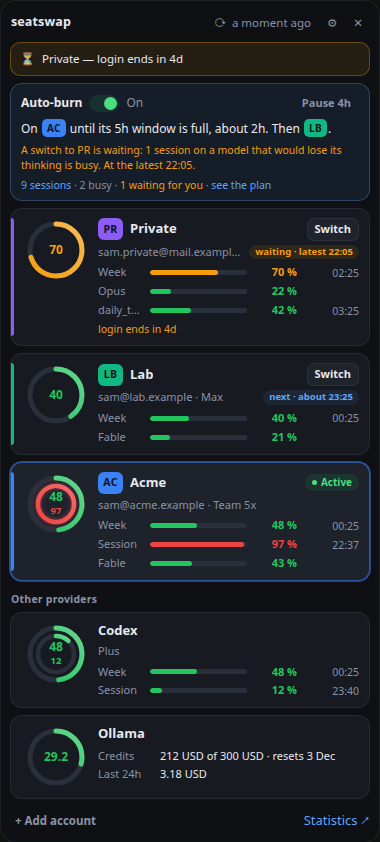
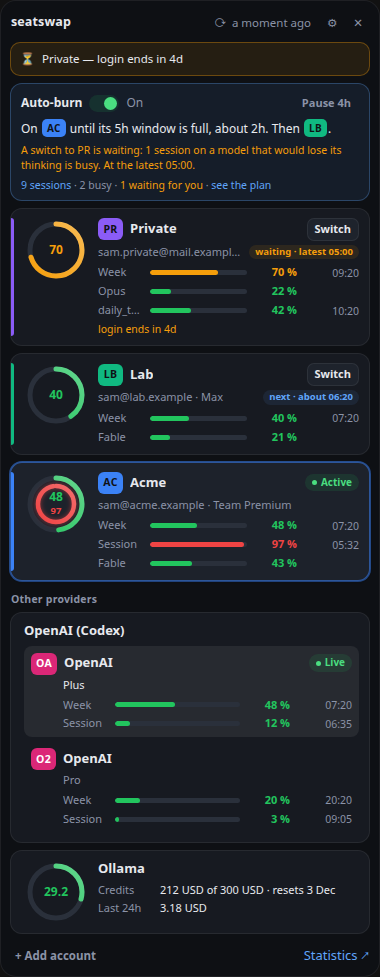
Docs after 1.3.0: README and screenshots, Codex login on Windows as a known issue, Tokens-a-week note

diff --git a/crates/app/ui/areas/statistics/subscriptions.js b/crates/app/ui/areas/statistics/subscriptions.js
@@ -1186,7 +1186,7 @@ function tokensWeekCard(tokensWeek, plans, env) {
   body.appendChild(
     h("p", {
       class: "stats-sub-token-note",
-      text: "Refit every week as new work comes in; the range is how far a figure may still be off.",
+      text: "Fitted from all work up to now each time the page opens; the range is how far a figure may still be off.",
     })
   );
   card.appendChild(body);

diff --git a/README.md b/README.md
@@ -7,20 +7,25 @@ A tray app and command line tool for Linux and Windows that switches
 one click. Only the login is swapped. Your `~/.claude` (on Windows `%USERPROFILE%\.claude`) stays
 the same for every account: memory, skills, plugins, hooks, settings and history are shared.
 
-The tray icon shows the active account's abbreviation with a ring for how much of its limit is
-used. A click opens a pop-up with the session and weekly usage of every stored account, so you can
-see at a glance which one still has room. Beyond that, seatswap can switch by itself so that as
-little quota as possible expires (auto-burn), shows the running Claude Code sessions, keeps a
-history with statistics of what each subscription was used for, and builds Claude Code's status
-line.
+The tray icon shows the active account's abbreviation (or, if you choose, its usage percent) with a
+ring for how much of its limit is used. A click opens a pop-up with the session and weekly usage of
+every stored account, so you can see at a glance which one still has room. Beyond that, seatswap
+can switch by itself so that as little quota as possible expires (auto-burn), switches Codex between
+saved OpenAI logins, shows the running Claude Code, Codex and DeepSeek Harness sessions, keeps a
+history with statistics of what each subscription was used for and what it gives, and builds Claude
+Code's status line.
 
 <p>
-  <img src="docs/images/panel-dark.png" alt="The pop-up in the dark theme: auto-burn's line with account chips and a waiting switch, the sessions line with links to Sessions, the plan and Statistics, three accounts with usage rings, bars and reset times, and the Codex and Ollama cards" width="380">
+  <img src="docs/images/panel-dark.png" alt="The pop-up in the dark theme: a login warning, auto-burn's line with account chips and a waiting switch, the sessions line, three Claude accounts with usage rings, bars and reset times, the OpenAI (Codex) card with two saved logins, the live one marked, and the Ollama card" width="380">
   <img src="docs/images/panel-light.png" alt="The same pop-up in the light theme" width="380">
 </p>
 
 <p>
-  <img src="docs/images/window-sessions.png" alt="The large window's Sessions area: Claude Code, Codex and DeepSeek Harness sessions grouped by project and provider, with their agents, tokens, last hour and values, and cards for the models, what a switch would cost and the last hour by project" width="760">
+  <img src="docs/images/window-sessions.png" alt="The large window's Sessions area: Claude Code and DeepSeek Harness sessions grouped by project and provider, with their agents, a flash job, tokens, last hour and values, and cards for the models, what a switch would cost and the last hour by project" width="760">
+</p>
+
+<p>
+  <img src="docs/images/window-subscriptions.png" alt="Statistics, Subscriptions page over 90 days: what each plan gives in hours of typical work per model, the plan sizes measured against Max, what is used of what is paid per company, what 1 % of a limit buys over the weeks with a note that it fell by 20 % since 19 Oct, and the tokens a week per subscription and model" width="760">
 </p>
 
 <p>
@@ -35,12 +40,12 @@ line.
 
 ## Status
 
-Built and used daily on **Linux Mint 22 Cinnamon (X11)**. On Windows 11 it builds
-and passes its tests (Claude Code keeps its login in the same file there), and the tray app of
-1.0 had its first run there on 2026-11-11. The parts new in 1.1 (sessions, history, statistics,
-auto-burn, the status line, the large window) have passed their tests on Windows but have not run
-on a Windows desktop yet. macOS is not supported yet: Claude Code keeps its login in the Keychain
-there, and seatswap does not read or write that yet.
+Built and used daily on **Linux Mint 22 Cinnamon (X11)**. On **Windows 11** version 1.2.2 was
+checked by hand on 2026-11-18: the tray icon and pop-up, a switch that a running Claude Code session
+follows, the notifications, start at login, settings shared with a Linux machine, the status line
+and the Sessions area all work (Claude Code keeps its login in the same file there). The parts new in
+1.3 pass their tests on Windows but have not run on a Windows desktop yet. macOS is not supported
+yet: Claude Code keeps its login in the Keychain there, and seatswap does not read or write that yet.
 
 ## Features
 
@@ -93,7 +98,8 @@ there, and seatswap does not read or write that yet.
   folder, so every host shows the same names once the folder has synced. History can be exported as
   CSV or JSON, and another history folder's files imported by hand.
 - **Usage at a glance.** The icon ring shows the active account's binding limit, coloured green,
-  amber or red. The pop-up shows every account's session (5 h) and weekly limits, with the time
+  amber or red. Inside the ring the icon shows the account's letters, or with *Settings → General →
+  The tray icon shows* the ring's percent (100 % shown as 99, so it stays two digits). The pop-up shows every account's session (5 h) and weekly limits, with the time
   until each one resets — and its plan, such as "Team Premium".
 - **OpenAI (Codex) and Ollama cards.** With a switch in *Settings → Providers*, the pop-up shows an
   OpenAI card and an Ollama card. The OpenAI card lists every saved Codex login, marks the live one
@@ -101,17 +107,24 @@ there, and seatswap does not read or write that yet.
   Ollama card shows credits left, reset date, spend in the last 24 h, or session and weekly limits on
   an old plan. Both are off by default; while one is off, seatswap sends no request for that card.
   seatswap writes Codex's `auth.json` only when switching between saved logins; sign-in and sign-out
-  stay Codex's own (`codex login`).
+  stay Codex's own (`codex login`). Codex reads that file only when a session starts, so a switch
+  reaches new Codex sessions; running ones keep their login until they restart. On Windows a Codex
+  login is most likely too large for one Credential Manager entry (2,560 bytes), so seatswap cannot
+  save it there and Codex switching does not work yet; the card still shows the usage and says why.
+  This follows from the sizes and has not been tried on Windows.
 - **Auto-burn.** Switched on, seatswap moves between accounts by itself so that as little work as
   possible is blocked; it switches before an account is full only when the measured gain is worth
-  the switch. Switched off, it suggests the same switch instead.
+  the switch. Switched off, it suggests the same switch instead. It measures work in API dollars:
+  each account learns how many percent of a limit one dollar of work at API prices uses, starting
+  from a figure assumed from its plan.
 - **Status line for Claude Code.** `seatswap statusline` prints the live account and its limits in
   Claude Code's status line, and hands the live numbers back to the tray app without an extra
   request. The large window's Status line area builds the line, previews it at three terminal
   widths, and turns it on in Claude Code with one button that can be undone.
 - **History.** Every usage reading, finished window, switch and agent call is kept in an
-  append-only history folder, one JSON Lines file per month and kind, with tokens per project and
-  hour, and Ollama's hourly usage. Several hosts can share it through a synced folder; each writes
+  append-only history folder, one JSON Lines file per month and kind, with tokens per project,
+  model and 5 minutes, and Ollama's hourly usage. Update every machine that shares a history
+  folder to 1.3 together: older versions read the 5-minute token lines as hours. Several hosts can share it through a synced folder; each writes
   only its own subfolder.
 - **A second computer.** Point both computers' history folder at the same synced folder, and the
   second one gets more than the shared history: each account's label, abbreviation, colour, price
@@ -337,29 +350,34 @@ the tray app, and `seatswap.exe` for everything you want to read in a terminal.
 - **One backup:** before seatswap writes to one of these two files for the first time, it keeps a
   copy next to it, named `<file>.seatswap-backup`. The copy contains the login of that moment and
   is never updated.
-- **Where stored logins live:** in your system keyring (Secret Service on Linux, Credential
-  Manager on Windows). If no keyring is available, in files in the data folder, and the pop-up
+- **Where stored logins live:** the saved Claude logins and the saved Codex logins are in your
+  system keyring (Secret Service on Linux, Credential Manager on Windows). If no keyring is available, in files in the data folder, and the pop-up
   says so. On Linux those files have mode `0600`; on Windows they are protected only by the
   permissions of your user folder.
 - **What else it writes:** its own data folder (including `feed.json`, the status line's live
   numbers, `burn-next.json` and `notification-icon.png`, the picture its notifications show), the
   one key `statusLine` of Claude Code's `settings.json` when you press *Use in Claude
-  Code*, and the entry that starts it at login
+  Code*, Codex's `auth.json` when you switch Codex to another saved login, and the entry that starts it at login
   (`~/.config/autostart/seatswap.desktop` on Linux, the value `seatswap` under
   `HKCU\Software\Microsoft\Windows\CurrentVersion\Run` on Windows). On Windows it also registers
   the name its notifications are shown under
   (`HKCU\Software\Classes\AppUserModelId\dev.seatswap.app`).
-- **Codex and Ollama:** with the Codex card on, seatswap reads Codex's `auth.json` for the access
-  token and account id it sends to `chatgpt.com`; it never writes that file, never refreshes the
-  token and never reads the OS keyring. With the Ollama card on it only asks the Ollama server for
-  the balance and the last 24 h's spend. Both cards are off by default, and neither card sends a
-  request that generates text.
+- **Codex and Ollama:** with the Codex card on, or a price set for an OpenAI subscription,
+  seatswap reads Codex's `auth.json` for the access token and account id it sends to `chatgpt.com`,
+  and keeps a copy of every ChatGPT login it sees there, so it can switch back to it. It writes
+  `auth.json` only for a switch, holding Codex's own two locks (`auth.lock`, `auth.json.lock`), and
+  every key stays as Codex wrote it. It never renews the live login; that stays Codex's job. A saved
+  login that is not live is renewed once at OpenAI's own token endpoint when its token has run out.
+  A login Codex keeps in the OS keyring, or an API key, is not saved or switched. With the Ollama
+  card on, seatswap only asks the Ollama server for the balance and the last 24 h's spend. Both
+  cards are off by default, and neither sends a request that generates text.
 - **Sessions and the files behind them:** with *Read Claude Code's session files* on, seatswap also
   reads Codex's rollout files (`<codex folder>/sessions/YYYY/MM/DD/rollout-*.jsonl`) and thread
   names (`<codex folder>/session_index.jsonl`; the folder is the *Codex folder* setting,
   `$CODEX_HOME` or `~/.codex`), DeepSeek Harness's sessions
-  (`$DSH_HOME/sessions` or `~/.dsh/sessions`) and flash-agents' job reports
-  (`$XDG_STATE_HOME/flash-agents` or `~/.local/state/flash-agents`). While the saved settings name
+  (`$DSH_HOME/sessions` or `~/.dsh/sessions`) and flash-agents' job reports (`$FLASH_DATA_DIR`;
+  else on Windows `%LOCALAPPDATA%\flash-agents`, elsewhere `$XDG_STATE_HOME/flash-agents` or
+  `~/.local/state/flash-agents`). While the saved settings name
   no history folder, it reads Dropbox's `info.json` (macOS and Linux `~/.dropbox/info.json`; Windows
   `%APPDATA%\Dropbox\info.json`, then `%LOCALAPPDATA%\Dropbox\info.json`) only to suggest
   `<Dropbox>/seatswap` as the history folder; a file it cannot read is shown with its path and why.
@@ -369,15 +387,16 @@ the tray app, and `seatswap.exe` for everything you want to read in a terminal.
   title or task text (shown in the window and cleared before the report other hosts read).
 - **Network:** the usage endpoint (`api.anthropic.com/api/oauth/usage`) and Claude Code's token
   endpoint (`platform.claude.com/v1/oauth/token`, with Claude Code's own client id) to refresh
-  stored logins. While the Codex card is on, `chatgpt.com/backend-api/wham/usage` with Codex's own
-  access token and account id; while the Ollama card is on, the server at `ollamaUrl` (default
+  stored logins. While the Codex card is on or an OpenAI subscription has a price,
+  `chatgpt.com/backend-api/wham/usage` with each login's own access token and account id, and
+  `auth.openai.com/oauth/token` to renew a saved login that is not live; while the Ollama card is on, the server at `ollamaUrl` (default
   `http://127.0.0.1:11434`) for `/api/balance` and `/api/usage?range=24h`, with no secret. And, only
   while *Look up prices and the dollar rate* is on, `models.dev` for API prices and
   `api.frankfurter.dev` for the dollar rate; those two send a User-Agent and nothing about you, your
   accounts or this machine. Nothing else.
 - **Logs and output** never contain a token; at most the last four characters of a refresh token.
 - **What it records:** the history (every usage reading, finished window, switch and agent call,
-  the tokens each session used per project folder, hour and model, Ollama's hourly usage, and each
+  the tokens each session used per project folder, 5 minutes and model, Ollama's hourly usage, and each
   edit of an account's label, abbreviation, colour or price and of a shared setting) and,
   for your other hosts, a live report of this host's running sessions (`sessions-now.json`: session
   names and titles, folders, models and token counts, never an agent's task text or a worker's title). Both go
@@ -388,7 +407,8 @@ the tray app, and `seatswap.exe` for everything you want to read in a terminal.
   and the Codex and Harness files.
 - **Locks:** a switch holds Claude Code's own lock files (the renewal locks of the main and the two
   secondary logins, credentials write, identity write) and its own app lock, so it never
-  overwrites a login Claude Code is writing.
+  overwrites a login Claude Code is writing. A Codex switch likewise holds the app lock and Codex's
+  two lock files.
 
 Whether using a subscription login this way is within Anthropic's terms is for you to judge; see
 [Anthropic's terms](https://www.anthropic.com/legal/consumer-terms).
@@ -401,7 +421,7 @@ Whether using a subscription login this way is within Anthropic's terms is for y
 | KDE Plasma, Xfce, MATE | Expected to work (StatusNotifierItem) |
 | GNOME | Needs the AppIndicator extension |
 | Wayland sessions | Expected to work; the pop-up is centred, the compositor places it |
-| Windows 11 | Builds and passes its tests; 1.0's first run on 2026-11-11 (tray app, start at login); a switch and the notifications are not confirmed yet, and the parts new in 1.1 have not run on a desktop yet. `seatswap.exe` is the CLI, `seatswap-tray.exe` the same program without a console window (autostart, Start menu). Works while Claude Code keeps its login in `.credentials.json`; a newer Claude Code can move it into Windows Credential Manager, which is not supported yet |
+| Windows 11 | **Checked by hand with 1.2.2** on 2026-11-18: tray icon, pop-up, a switch a running session follows, notifications, start at login, shared settings, status line, Sessions. The parts new in 1.3 pass their tests there but have not run on a desktop yet; Codex switching most likely does not work there yet (a Codex login does not fit one Credential Manager entry). `seatswap.exe` is the CLI, `seatswap-tray.exe` the same program without a console window (autostart, Start menu). Works while Claude Code keeps its login in `.credentials.json`; a newer Claude Code can move it into Windows Credential Manager, which is not supported yet |
 | Windows 10 (1803 or later) | Expected to work; not run yet |
 | macOS | Not yet: needs Keychain support for Claude Code's login |
 

diff --git a/SECURITY.md b/SECURITY.md
@@ -16,9 +16,14 @@ seatswap handles Claude login tokens, so it is built to keep them where they bel
   such modes, so there they are protected only by the permissions of the user's own folder.
 - **Each token goes only to its own provider, over HTTPS.** Claude logins go only to the usage
   endpoint (`api.anthropic.com`) and Claude Code's token endpoint (`platform.claude.com`). With
-  the Codex card on, Codex's own access token goes only to `chatgpt.com`, read from Codex's
-  `auth.json`, which seatswap never writes or refreshes. The Codex card itself reads nothing and
-  sends nothing while it is off. The Sessions area is separate: with *Read Claude Code's session files*
+  the Codex card on (or a price set for an OpenAI subscription), each saved Codex login's access
+  token goes only to `chatgpt.com`, and its refresh token only to OpenAI's own token endpoint
+  (`auth.openai.com`), to renew a saved login that is not live; a login from any other issuer is
+  never renewed. seatswap never renews Codex's live login, and writes Codex's `auth.json` only to
+  switch to another saved login. Saved Codex logins are kept like Claude logins (keyring, or the
+  `0600` files). While the card is off and no OpenAI subscription has a price, the tray app
+  reads nothing of Codex's login and sends nothing; only `seatswap codex list` or `codex switch`,
+  run by you, read it then. The Sessions area is separate: with *Read Claude Code's session files*
   on, it reads Codex's rollout files whatever the card says. The Ollama card asks the Ollama server
   (by default the local one) with no secret.
 - **The other network calls carry nothing about you.** While *Look up prices and the dollar rate*
@@ -29,13 +34,15 @@ seatswap handles Claude login tokens, so it is built to keep them where they bel
   the last four characters of a refresh token.
 - **Minimal writes to Claude Code's files.** A switch rewrites only the login entries of
   `.credentials.json` and the `oauthAccount` entry of `.claude.json`. *Use in Claude Code* (the
-  status line) writes only the `statusLine` key of Claude Code's `settings.json`. Every other key
-  stays exactly as it was, in the same order. Every write is atomic (temporary file, then rename),
+  status line) writes only the `statusLine` key of Claude Code's `settings.json`. A Codex switch
+  writes the saved login's whole `auth.json` object back as Codex wrote it, holding Codex's own
+  locks. Every other key stays exactly as it was, in the same order. Every write is atomic (temporary file, then rename),
   and the first write to each file keeps a `.seatswap-backup` copy.
 - **Reading sessions, not conversations.** To show running sessions and count tokens, seatswap
   reads Claude Code's session files and transcripts (on by default; *Read Claude Code's session
   files* turns it off). It also reads DeepSeek Harness's session files (`$DSH_HOME/sessions` or
-  `~/.dsh/sessions`), flash-agents' job reports (`$XDG_STATE_HOME/flash-agents` or
+  `~/.dsh/sessions`), flash-agents' job reports (`$FLASH_DATA_DIR`; else on Windows
+  `%LOCALAPPDATA%\flash-agents`, elsewhere `$XDG_STATE_HOME/flash-agents` or
   `~/.local/state/flash-agents`) and Codex's rollout files
   (`<codex folder>/sessions/YYYY/MM/DD/rollout-*.jsonl`) and thread names
   (`<codex folder>/session_index.jsonl`). From a Harness session it takes the
@@ -51,7 +58,7 @@ seatswap handles Claude login tokens, so it is built to keep them where they bel
   the report other hosts read. No file among them is ever written. It never opens the secret `.key`
   files that sit next to Claude Code's session files.
 - **What a shared history folder holds.** The history (usage readings, switches, tokens per
-  project and hour, session records with their titles) and the live report other hosts read
+  project, model and 5 minutes, session records with their titles) and the live report other hosts read
   (`sessions-now.json`: session names and titles, folders, models and token counts, never an agent's
   task text) are written to the history folder.
   If you point that folder at a synced service, those records travel with it. No token and no

diff --git a/docs/spec.md b/docs/spec.md
@@ -1870,8 +1870,9 @@ The four cards:
   `estimated` (a striped bar); the main model needs a token mix, not a price of its own. A figure
   whose factor still leans on its plan-size prior says `assumed` instead of a range. Bars
   compare within a column. An empty cell is `—` titled with its reason: `not offered by {company}`,
-  `no price for {model}`, or why the estimate could not be made. The note reads `Refit every week as new work comes in; the range is how far a figure may
-  still be off.`
+  `no price for {model}`, or why the estimate could not be made. The note reads `Fitted from all work up to now each time the page opens; the range is how
+  far a figure may still be off.` (The fit runs on every load of the page; an open page does not reload
+  by itself.)
 
 The what-if replay is gone: no page replays a week without a subscription, and there is no
 `stats_what_if` command.
@@ -2483,6 +2484,7 @@ Run on 2026-11-10 with two real accounts in a separate config folder. Evidence a
 | A switch moves all running sessions (§6.5) | A long agent run continues on the other account, with its settings and limits. | The pop-up says so before the switch. Per-terminal accounts are a non-goal (§1). |
 | Claude Code can move the Windows login into Windows Credential Manager (`docs/windows.md` §13) | Version 2.1.322 has this store behind a server-side flag (`tengu_windows_credman`, off on the test machine on 2026-11-11). With it on, Claude Code reads the login from Credential Manager and deletes `.credentials.json` after its first save there; a switch on Windows then changes nothing. | seatswap reports "no login" instead of failing silently. Support for that store is not built; it is the Windows counterpart of the macOS Keychain work (§2.2). |
 | The Codex usage endpoint is internal and not documented by OpenAI (§7.9) | OpenAI can change or remove it in any release; the card would then stop showing numbers. | The endpoint lives in `api.rs` beside seatswap's other endpoints; it is the only Codex endpoint. A changed answer shows the API error text on that card, and nothing else — no switch, no stored account, no Claude reading — is affected. The card is off by default. |
+| A Codex login does not fit one Windows Credential Manager entry (`docs/windows.md` §15) | Credential Manager holds 2560 bytes per entry; a Codex login is about 7,800 bytes as UTF-16, so on Windows the save fails and Codex cannot be switched (worked out from the sizes, not run on Windows). | The OpenAI card still shows the live login's usage, and its row says `This login is not saved: {error}`. How to store it on Windows is not decided. |
 | Linux tray limits (§8.3, §9.2) | A desktop without a StatusNotifierItem host shows no icon at all; on Wayland the pop-up cannot sit at the icon. | The menu and `seatswap panel` reach the pop-up too. Native applets later (§9.3). |
 
 ## 17. Known issues

diff --git a/docs/windows.md b/docs/windows.md
@@ -386,7 +386,7 @@ What it means for seatswap: with the flag on, a switch that only rewrites `.cred
 
 1.2.0 reads the Harness's and flash-agents' folders and, while the saved settings name no history
 folder, looks for Dropbox's `info.json`; Codex's folder was already read in 1.1.0. Every one is read
-only; seatswap never writes there. As on Linux, `HOME` does not move the Codex or Harness folders on
+only; seatswap never writes there, except Codex's `auth.json` for a Codex switch since 1.3.0 (section 15). As on Linux, `HOME` does not move the Codex or Harness folders on
 Windows: they come from `dirs::home_dir()`, which is `%USERPROFILE%`, or from the variable named
 beside them.
 
@@ -414,3 +414,20 @@ Code session once its result is in that session's transcript; before that it is 
 under its own Harness id and folder. Codex's running rule keeps its other half on Windows: a session
 whose last event is younger than the Harness quiet time is running. A running job whose result no
 transcript holds yet is not shown as its session's agent on Windows.
+
+## 15. Codex logins on Windows (1.3.0, 2026-11-18)
+
+1.3.0 keeps a copy of every ChatGPT login it sees in Codex's `auth.json`, in the secrets store, so it
+can switch Codex between them (`docs/spec.md` §7.9). On Windows the store is Credential Manager,
+which holds 2560 bytes per entry (section 3). A Codex login (the whole `auth.json` object: id token,
+access token, refresh token, account id) is about 3,900 characters, about 7,800 bytes as UTF-16, so
+the save fails there. Worked out from the sizes; not run on Windows yet.
+
+What happens then: the OpenAI card still reads and shows the live login's usage, and the login's row
+says `This login is not saved: {error}`. A switch away from it fails, because a switch saves the live
+login first. Without a keyring (the `0600`-file fallback) the save is not limited by size.
+
+Not decided: keep Codex copies in the file store on Windows, split one copy over several keyring
+entries (as Claude Code does for its own Credential Manager login, section 13), or leave Windows
+without Codex switching. Each of the first two is a second way to store a secret and needs the owner's
+word.

diff --git a/CHANGELOG.md b/CHANGELOG.md
@@ -6,6 +6,11 @@ All notable changes to this project are documented here. The format follows
 
 ## [Unreleased]
 
+### Fixed
+
+- Subscriptions → Tokens a week: the note says the figures are fitted from all work up to now each
+  time the page opens; it said "Refit every week", which they never were.
+
 ## [1.3.0] - 2026-11-18
 
 ### Added
@@ -69,6 +74,12 @@ All notable changes to this project are documented here. The format follows
 - Statistics' "What if without it", its `WhatIf` type and the `stats_what_if` command. A keep/drop
   verdict misses what a subscription saves elsewhere.
 - Work units and their constants in auto-burn; every figure is in API dollars now.
+
+### Known issues
+
+- Windows: a Codex login is most likely too large for one Credential Manager entry (2,560 bytes), so
+  seatswap cannot save it there and Codex switching does not work yet; the OpenAI card still shows
+  the usage and says why the login is not saved. Worked out from the sizes, not tried on Windows.
 
 ## [1.2.2] - 2026-11-17
 
